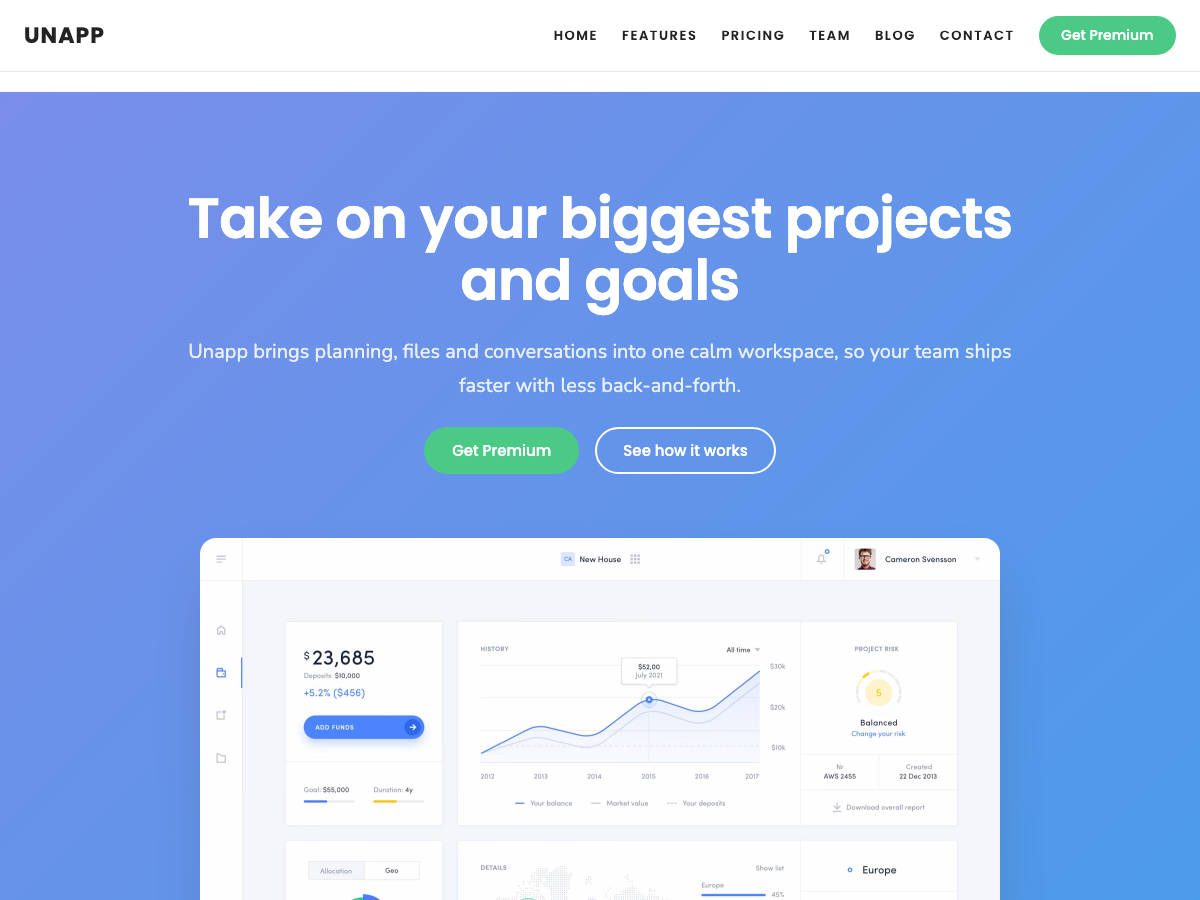
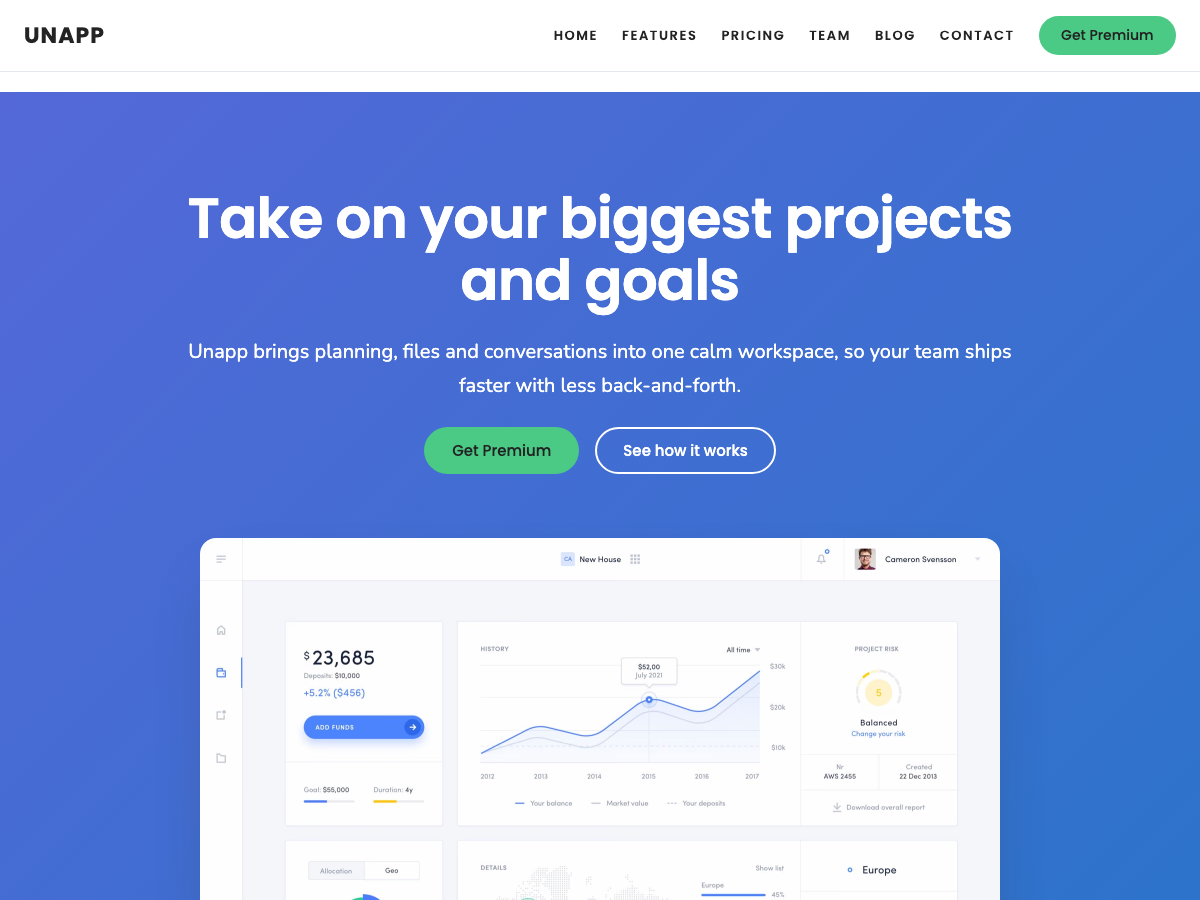
Update docs, translation template and screenshot for the front page setup

diff --git a/CLAUDE.md b/CLAUDE.md
@@ -46,9 +46,10 @@ Useful checks with it: `wp eval 'echo do_blocks("<!-- wp:pattern {\"slug\":\"una
 | Palette, gradients, shadows, spacing scale, fluid font sizes, self-hosted fonts, element/block styles, custom template + part registration | `theme.json` (v3) |
 | Section styles (Group/Columns/Column/Cover): `card`, `section-soft`, `section-dark`, `section-gradient` | `styles/*.json` files **with** `blockTypes` |
 | Color variations: Emerald, Sunset, Midnight | `styles/*.json` files **without** `blockTypes` |
-| Templates | `templates/*.html` — index, home, front-page, single, page, page-no-title, archive, search, 404 |
+| Templates | `templates/*.html` — index, home, single, page, page-no-title, archive, search, 404 (deliberately **no** front-page.html) |
 | Template parts | `parts/header.html`, `parts/footer.html` — each is a single `<!-- wp:pattern -->` reference to `patterns/header.php` / `patterns/footer.php` so header/footer text is translatable and images use `get_theme_file_uri()` |
 | Sections, page starters, hidden template partials | `patterns/*.php` |
+| Front page setup on activation (Home + Blog pages, Reading settings, admin notices) | `inc/front-page-setup.php` |
 | Block styles + per-block CSS, pattern categories, lazy counter script | `functions.php`, `assets/css/list-checklist.css`, `assets/css/image-device.css`, `assets/js/counter.js` |
 | Rules theme.json cannot express (thumbnail hover, `flex-shrink:0` for header buttons) | `style.css` (also loaded in the editor via `add_editor_style`) |
 
@@ -60,9 +61,12 @@ Useful checks with it: `wp eval 'echo do_blocks("<!-- wp:pattern {\"slug\":\"una
 - **Repeated items are generated in PHP** (`$unapp_services`, `$unapp_plans`, `$unapp_members`…) with `_x()` in the array and `esc_html()` at output — keep that pattern; do not echo unescaped strings.
 - **Block markup must be valid** in the editor. Serialized classes/styles must match what the block's `save()` produces (`has-{slug}-color has-text-color`, `has-{slug}-font-size`, `is-resized`, `has-custom-border`, `alignwide`, …). Cover uses the older *span-before-img* markup on purpose: it validates via deprecation on 7.0 and natively on 6.6. Verify with `wp.blocks.parse(content)` in an editor tab (walk `innerBlocks`, look for `isValid === false`) — the site-editor UI does not reliably surface invalid theme-file blocks, and a paragraph with a `<div>` is *not* flagged, so use heading/button/image probes when sanity-checking the checker.
 - **Stats counter**: paragraphs with class `unapp-count`; `functions.php` enqueues `assets/js/counter.js` (defer, footer) from a `render_block_core/paragraph` filter only when such a paragraph renders. Number formats supported: `10,000+`, `1.2M`, `99.9%`, `4.9/5` (prefix/number/suffix regex).
-- **Front page**: `templates/front-page.html` is a stack of `wp:pattern` references (hero → contact) inside a `main` group. It overrides any static-page setting; readme.txt documents how users switch. `home.html` is the posts page (grid via `hidden-posts-grid`).
+- **Front page**: no HTML template. `inc/front-page-setup.php` hooks `after_switch_theme` (fires on `init` 99) → sets a pending flag → `init` 100 runs `unapp_setup_front_page()`: expands `unapp/page-home` (nested `wp:pattern` refs resolved by `unapp_get_pattern_markup()`), inserts a published "Home" page (template `page-no-title`, kses filters temporarily removed) and a "Blog" page, sets `show_on_front/page_on_front/page_for_posts`, records IDs in option `unapp_front_page_setup` (never re-runs). Automatic only when the site has no static front page; otherwise option `unapp_offer_front_page_setup` shows an admin notice with an admin-post button (nonce + `edit_theme_options`). Filter `unapp_auto_setup_front_page` disables auto-run. `home.html` is the posts page.
 - **Hidden patterns** (`Inserter: no`) carry translatable text for templates: `hidden-blog-heading`, `hidden-posts-grid`, `hidden-search`, `hidden-404`, `hidden-post-meta`, `hidden-post-tags`, `hidden-comments`. Page starters (`page-home`, `page-about`, `page-pricing`) are `wp:pattern` lists in category `unapp_page` with `Block Types: core/post-content`.
 - Pattern categories registered: `unapp` (sections) and `unapp_page` (page starters); core categories are also used in headers.
+- **Root padding values need units** (`"0px"`, not `"0"`): WP 7.0's navigation overlay uses `clamp(1rem, var(--wp--style--root--padding-top), 20rem)`; a unitless `0` makes the whole padding declaration invalid and the mobile menu loses all padding.
+- **theme.json nested `css` strings**: WP splits on `&`, so `& a, & b{…}` breaks (the comma part becomes a bogus root rule). Write one `&` rule per selector.
+- **Testing recipe used for 2.0.0**: activation flows via wp-cli (`theme activate` fires the setup within the same CLI run), admin flows/screenshots via headless Chrome + CDP (login with `wp-login.php?redirect_to=…` so the dashboard doesn't consume one-time notices), block validity via `wp.blocks.parse` on the REST content of patterns/templates/parts (probe with heading/button/image — a `<div>` inside a paragraph is *not* flagged), Theme Check via its admin page, colour variations by writing the variation JSON (+`isGlobalStylesUserThemeJSON`) into the `wp_global_styles` post and resetting afterwards, mobile via `Emulation.setDeviceMetricsOverride` (desktop Chrome can't go below ~500px). Test posts with `.mov` cover videos wedge headless capture — skip them.
 
 ### Assets
 

diff --git a/README.md b/README.md
@@ -6,7 +6,7 @@ Unapp is a lightweight WordPress **block theme** for app, SaaS and startup landi
 
 ## Highlights
 
-- **Complete landing page on activation** – gradient hero with product screenshot, services grid, image & text, features around a phone, animated stats, screenshot gallery (core lightbox), pricing table, team, latest posts, call to action and contact cards.
+- **Complete landing page on activation** – a real "Home" page (editable page content, *Page (No Title)* template) and a "Blog" page are created and assigned in Settings → Reading; existing front pages are never overridden (a one-click notice is shown instead). Gradient hero with product screenshot, services grid, image & text, features around a phone, animated stats, screenshot gallery (core lightbox), pricing table, team, latest posts, call to action and contact cards.
 - **14 patterns + 3 page starters** (Home, About, Pricing) — every section is reusable on any page.
 - **Section styles** for Group blocks: Card, Soft background, Dark, Gradient. **Block styles**: Checklist (List), Device frame (Image).
 - **Color variations**: default, Emerald, Sunset, Midnight (dark).
@@ -25,7 +25,8 @@ unapp/
 ├── style.css            theme header + a few rules theme.json can't express
 ├── theme.json           palette, gradients, shadows, spacing, fonts, global styles, templates
 ├── functions.php        block styles, pattern categories, lazy counter script
-├── templates/           index, home, front-page, single, page, page-no-title, archive, search, 404
+├── inc/front-page-setup.php  Home/Blog page creation + Reading settings on activation
+├── templates/           index, home, single, page, page-no-title, archive, search, 404
 ├── parts/               header, footer (each references a PHP pattern for i18n)
 ├── patterns/            section patterns, page starters and hidden template partials
 ├── styles/              section styles (blockTypes) and color variations
@@ -45,7 +46,7 @@ unapp/
 
 ## Front page behaviour
 
-`templates/front-page.html` renders the landing page regardless of the Reading settings, so a fresh install looks finished. To use your own page as the front page, edit the Front Page template and replace the pattern sections with a Post Content block, or insert the *Home landing page* pattern into a page using the *Page (No Title)* template.
+There is deliberately **no `front-page.html`**. On activation `inc/front-page-setup.php` creates a *Home* page whose content is the fully expanded "Home landing page" pattern (template *Page (No Title)*) plus a *Blog* page, and sets `show_on_front`, `page_on_front`, `page_for_posts`. It only does this automatically when the site has no static front page; otherwise an admin notice offers a one-click setup. The run is recorded in the `unapp_front_page_setup` option and never repeated. Disable with `add_filter( 'unapp_auto_setup_front_page', '__return_false' )`.
 
 ## Development
 

diff --git a/CHANGELOG.md b/CHANGELOG.md
@@ -15,9 +15,10 @@ Complete rewrite as a WordPress block theme (Full Site Editing). Nothing from 1.
 
 ### Added
 - `theme.json` v3: palette (base, contrast, primary, secondary, accent, surface, muted, border, dark), gradients, shadow presets, spacing scale, fluid font sizes, self-hosted Poppins + Nunito font faces, global element and block styles, `Page (No Title)` template.
-- Block templates: `index`, `home`, `front-page`, `single`, `page`, `page-no-title`, `archive`, `search`, `404`; template parts `header` and `footer` (backed by PHP patterns for translation).
+- Block templates: `index`, `home`, `single`, `page`, `page-no-title`, `archive`, `search`, `404`; template parts `header` and `footer` (backed by PHP patterns for translation).
 - Section patterns: hero, services, collaborate (media & text), features around a phone, stats counter, app screens gallery, pricing table, team, latest blog posts, call to action, contact details.
 - Page starters: Home landing page, About page, Pricing page.
+- `inc/front-page-setup.php`: on activation creates a Home page (expanded Home landing page pattern, Page (No Title) template) and a Blog page and assigns them in Settings → Reading — automatically when no static front page exists, otherwise via a one-click admin notice; idempotent, filterable (`unapp_auto_setup_front_page`).
 - Hidden template partials: posts grid, blog heading, search form, 404 content, post meta, post tags, comments.
 - Section styles (Group/Columns/Column/Cover): Card, Soft background, Dark, Gradient. Block styles: List → Checklist, Image → Device frame.
 - Color variations: Emerald, Sunset, Midnight.
@@ -26,7 +27,9 @@ Complete rewrite as a WordPress block theme (Full Site Editing). Nothing from 1.
 - `readme.txt` (WordPress.org format), `README.md`, `languages/unapp.pot`, `.gitignore`.
 
 ### Changed
+- Palette tuned for WCAG AA: primary `#5468d8`, accent `#2a74ca` (≥4.7:1 on white); buttons use dark text on the green secondary (7.5:1 instead of 2.1:1); Emerald/Sunset variations adjusted likewise; white text on gradients raised to 92% opacity.
 - Version bumped to 2.0.0; requires WordPress 6.6+ and PHP 7.4+; tested up to WordPress 7.0.
+- Styled the password-protected post form; comment content is constrained (headings scaled down, tables/pre scroll, flex item min-width 0); mobile navigation overlay is left-aligned with proper padding.
 - Screenshot regenerated from the new landing page.
 
 ## 1.0
